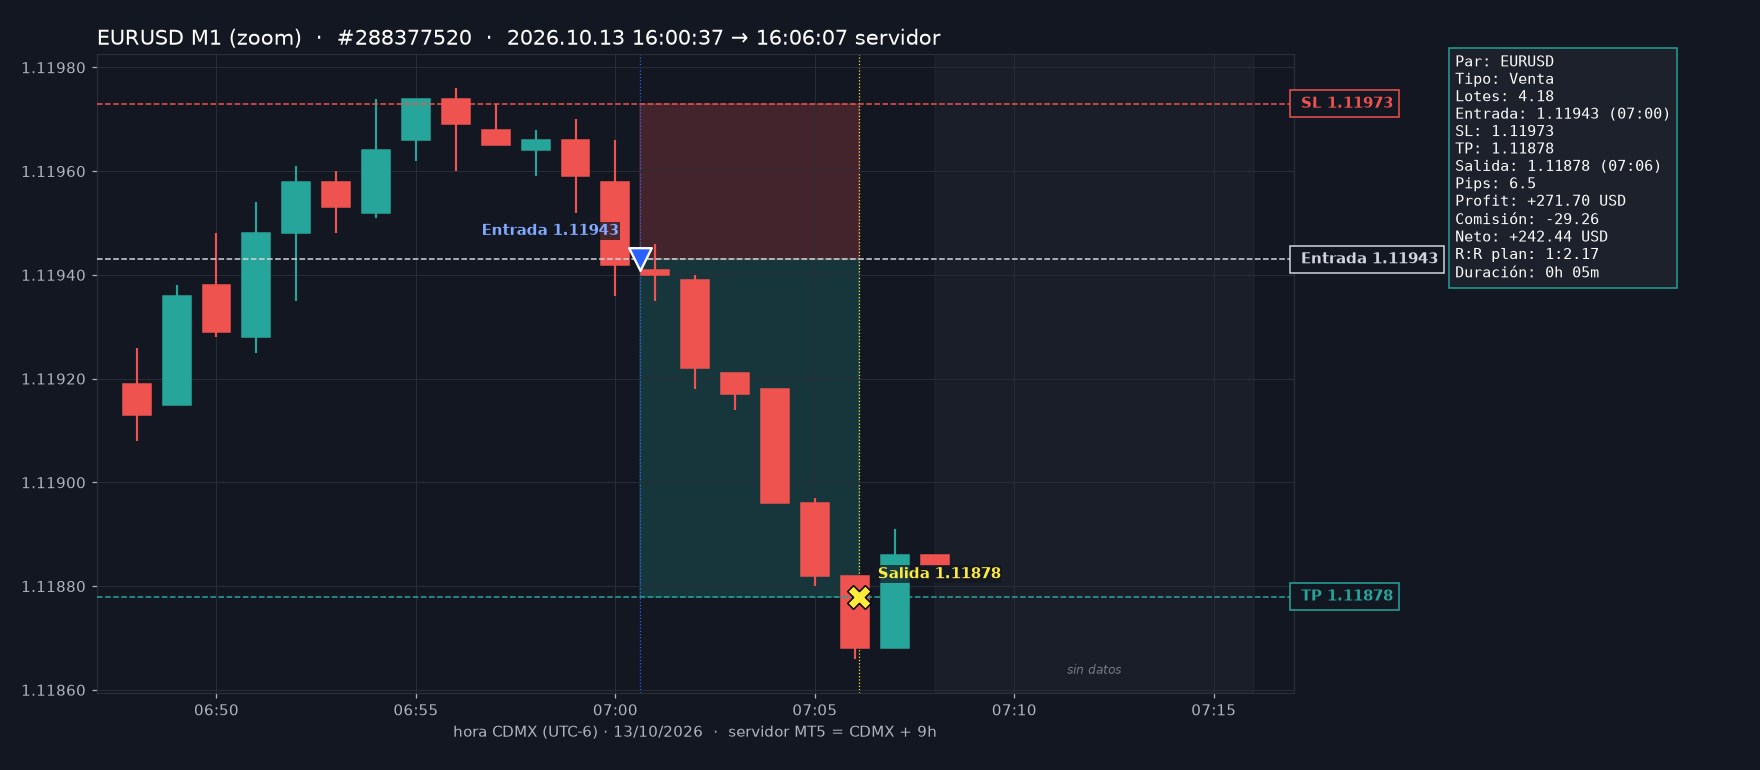
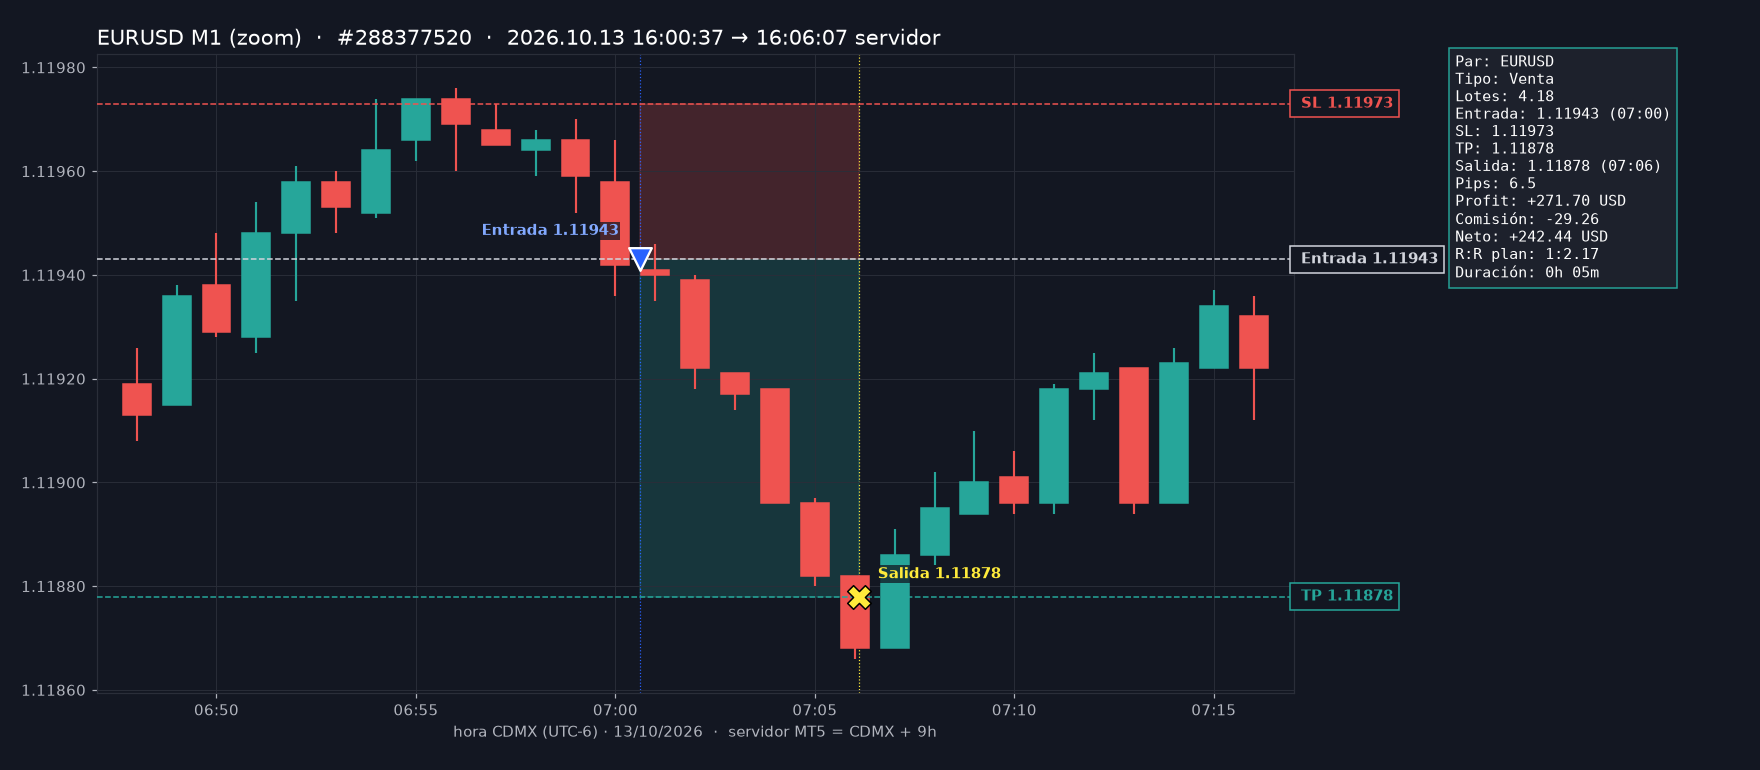
Trade #288548790 cerrado (tj-v17)

Changed region(s): [[0.5, 0.374, 0.7188, 0.7481]]

diff --git a/sw.js b/sw.js
@@ -1,5 +1,5 @@
 // Sube VERSION al actualizar data.json o assets
-const VERSION='tj-v16';
+const VERSION='tj-v17';
 const CORE=['./','./index.html','./style.css','./app.js','./manifest.json','./vendor/chart.umd.min.js','./icons/icon-192.png','./icons/icon-512.png','./icons/apple-touch-icon.png','./data.json'];
 self.addEventListener('install',e=>e.waitUntil(caches.open(VERSION).then(c=>c.addAll(CORE)).then(()=>self.skipWaiting())));
 self.addEventListener('activate',e=>e.waitUntil(caches.keys().then(ks=>Promise.all(ks.filter(k=>k!==VERSION).map(k=>caches.delete(k)))).then(()=>self.clients.claim())));
